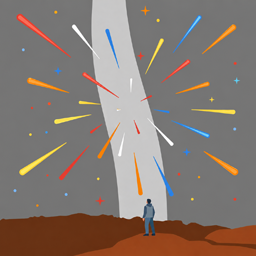
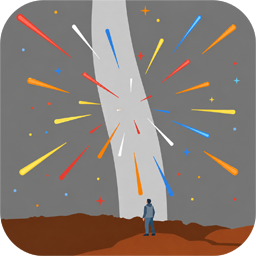
改善触控板交互，修改图标

Changed region(s): [[0.0, 0.8438, 1.0, 1.0], [0.8438, 0.0, 1.0, 0.1562], [0.0, 0.0, 0.1562, 0.1562]]

diff --git a/meteoalign/app_view_controls.py b/meteoalign/app_view_controls.py
@@ -2,8 +2,9 @@ from __future__ import annotations
 from .app_constants import *
 
 import math
+from collections.abc import Callable
 
-from PyQt5.QtCore import QEvent, QPoint, Qt, QTimer
+from PyQt5.QtCore import QEvent, QPoint, QPointF, Qt, QTimer
 from PyQt5.QtWidgets import QApplication, QGraphicsView, QMainWindow, QMessageBox
 
 from .app_constants import (
@@ -45,6 +46,29 @@ class ViewControlsMixin:
     last_drag_pos: QPoint | None
     render_timer: QTimer
     _reference_pick_press_pos: QPoint | None
+
+    def _native_zoom_centers(self) -> dict[int, QPointF]:
+        centers = getattr(self, "_graphics_view_native_zoom_centers", None)
+        if centers is None:
+            centers = {}
+            self._graphics_view_native_zoom_centers = centers
+        return centers
+
+    def _clear_graphics_view_native_zoom_center(self, view: QGraphicsView | None = None) -> None:
+        centers = self._native_zoom_centers()
+        if view is None:
+            centers.clear()
+            return
+        centers.pop(id(view), None)
+
+    def _graphics_view_native_zoom_center(self, view: QGraphicsView) -> QPointF:
+        centers = self._native_zoom_centers()
+        key = id(view)
+        center = centers.get(key)
+        if center is None:
+            center = view.mapToScene(view.viewport().rect().center())
+            centers[key] = center
+        return center
 
     def _configure_reference_preview_splitter(self) -> None:
         splitter = self.ui.splitterReferenceAndRealImage
@@ -233,6 +257,7 @@ class ViewControlsMixin:
                 self._reference_pick_press_pos = None
                 self.ui.referenceImageView.viewport().unsetCursor()
             if event.type() == QEvent.MouseButtonPress and event.button() == Qt.LeftButton:
+                self._clear_graphics_view_native_zoom_center(self.ui.referenceImageView)
                 if self._event_ctrl_pressed(event):
                     self._update_reference_map_cursor(True)
                     self._reference_pick_press_pos = event.pos()
@@ -249,6 +274,7 @@ class ViewControlsMixin:
                         self._handle_reference_map_click(event.pos())
                     return True
             if event.type() == QEvent.Wheel:
+                self._clear_graphics_view_native_zoom_center(self.ui.referenceImageView)
                 return self._handle_graphics_view_wheel_zoom(self.ui.referenceImageView, event)
             if event.type() == QEvent.NativeGesture and self._handle_graphics_view_native_zoom(
                 self.ui.referenceImageView,
@@ -263,6 +289,7 @@ class ViewControlsMixin:
                 if event.type() == QEvent.Leave:
                     self.ui.realImageView.viewport().unsetCursor()
                 if event.type() == QEvent.MouseButtonPress and event.button() == Qt.LeftButton:
+                    self._clear_graphics_view_native_zoom_center(self.ui.realImageView)
                     if self._event_ctrl_pressed(event):
                         self._handle_real_image_pick_click(event.pos())
                         return True
@@ -291,6 +318,7 @@ class ViewControlsMixin:
                 if event.type() == QEvent.KeyPress and self._handle_star_pick_key_press(event):
                     return True
             if event.type() == QEvent.Wheel:
+                self._clear_graphics_view_native_zoom_center(self.ui.realImageView)
                 return self._handle_graphics_view_wheel_zoom(self.ui.realImageView, event)
             if event.type() == QEvent.NativeGesture and self._handle_graphics_view_native_zoom(
                 self.ui.realImageView,
@@ -299,6 +327,7 @@ class ViewControlsMixin:
                 return True
         if hasattr(self.ui, "imageSequenceView") and watched is self.ui.imageSequenceView.viewport():
             if event.type() == QEvent.Wheel:
+                self._clear_graphics_view_native_zoom_center(self.ui.imageSequenceView)
                 return self._handle_graphics_view_wheel_zoom(self.ui.imageSequenceView, event)
             if event.type() == QEvent.NativeGesture and self._handle_graphics_view_native_zoom(
                 self.ui.imageSequenceView,
@@ -347,27 +376,40 @@ class ViewControlsMixin:
         view: QGraphicsView,
         factor: float,
         *,
-        center_on_viewport: bool = False,
-    ) -> None:
+        center_scene: QPointF | None = None,
+    ) -> QPointF | None:
+        center_on_viewport = center_scene is not None
         if not center_on_viewport:
             view.scale(factor, factor)
-            return
+            return None
 
-        center = view.mapToScene(view.viewport().rect().center())
         previous_anchor = view.transformationAnchor()
         view.setTransformationAnchor(QGraphicsView.AnchorViewCenter)
         try:
             view.scale(factor, factor)
         finally:
             view.setTransformationAnchor(previous_anchor)
-        view.centerOn(center)
+        view.centerOn(center_scene)
+        return center_scene
+
+    def _run_with_reference_real_sync_suspended(self, view: QGraphicsView, operation: Callable[[], None]) -> None:
+        should_suspend = view in (self.ui.referenceImageView, self.ui.realImageView)
+        if not should_suspend or self._syncing_reference_real_views:
+            operation()
+            return
+
+        self._syncing_reference_real_views = True
+        try:
+            operation()
+        finally:
+            self._syncing_reference_real_views = False
 
     def _apply_graphics_view_zoom_factor(
         self,
         view: QGraphicsView,
         factor: float,
         *,
-        center_on_viewport: bool = False,
+        center_scene: QPointF | None = None,
     ) -> None:
         if factor <= 0.0 or not math.isfinite(factor) or abs(factor - 1.0) <= 1e-4:
             return
@@ -375,20 +417,30 @@ class ViewControlsMixin:
             min_scale = self._graphics_view_fit_scale(view)
             current_scale = self._graphics_view_current_scale(view)
             if current_scale * factor <= min_scale:
-                self._fit_graphics_view_to_scene(view)
+                self._run_with_reference_real_sync_suspended(view, lambda: self._fit_graphics_view_to_scene(view))
                 self._sync_reference_real_view_from(view)
                 return
         if factor > 1.0:
             max_scale = self._graphics_view_max_scale(view)
             current_scale = self._graphics_view_current_scale(view)
             if max_scale is not None and current_scale * factor >= max_scale:
-                self._set_graphics_view_scale(view, max_scale)
-                self._update_live_star_map_zoom_scale(view)
+                def apply_max_scale() -> None:
+                    self._set_graphics_view_scale(view, max_scale)
+                    self._update_live_star_map_zoom_scale(view)
+
+                self._run_with_reference_real_sync_suspended(view, apply_max_scale)
                 self._sync_reference_real_view_from(view)
                 return
-        self._scale_graphics_view(view, factor, center_on_viewport=center_on_viewport)
-        self._update_live_star_map_zoom_scale(view)
-        self._sync_reference_real_view_from(view)
+
+        applied_center: QPointF | None = None
+
+        def apply_scale() -> None:
+            nonlocal applied_center
+            applied_center = self._scale_graphics_view(view, factor, center_scene=center_scene)
+            self._update_live_star_map_zoom_scale(view)
+
+        self._run_with_reference_real_sync_suspended(view, apply_scale)
+        self._sync_reference_real_view_from(view, source_center=applied_center)
 
     def _native_gesture_zoom_value(self, event) -> float:  # type: ignore[no-untyped-def]
         if not self._touchpad_pinch_zoom_enabled():
@@ -418,10 +470,21 @@ class ViewControlsMixin:
         return max(TOUCHPAD_ZOOM_MIN_FACTOR, min(TOUCHPAD_ZOOM_MAX_FACTOR, factor))
 
     def _handle_graphics_view_native_zoom(self, view: QGraphicsView, event) -> bool:  # type: ignore[no-untyped-def]
+        begin_gesture = getattr(Qt, "BeginNativeGesture", None)
+        if begin_gesture is not None and event.gestureType() == begin_gesture:
+            self._clear_graphics_view_native_zoom_center(view)
+            self._graphics_view_native_zoom_center(view)
+            return False
+
+        end_gesture = getattr(Qt, "EndNativeGesture", None)
+        if end_gesture is not None and event.gestureType() == end_gesture:
+            self._clear_graphics_view_native_zoom_center(view)
+            return False
+
         factor = self._native_gesture_zoom_factor(event)
         if abs(factor - 1.0) <= 1e-4:
             return False
-        self._apply_graphics_view_zoom_factor(view, factor, center_on_viewport=True)
+        self._apply_graphics_view_zoom_factor(view, factor, center_scene=self._graphics_view_native_zoom_center(view))
         return True
 
     def _handle_star_pick_native_zoom(self, event) -> bool:  # type: ignore[no-untyped-def]

diff --git a/meteoalign/app_alignment.py b/meteoalign/app_alignment.py
@@ -590,7 +590,12 @@ class AlignmentMixin:
             and self.current_image_preview is not None
         )
 
-    def _sync_reference_real_view_from(self, source_view: QGraphicsView, force: bool = False) -> None:
+    def _sync_reference_real_view_from(
+        self,
+        source_view: QGraphicsView,
+        force: bool = False,
+        source_center=None,
+    ) -> None:
         if self._syncing_reference_real_views:
             return
         if not force and not self._can_sync_reference_real_views():
@@ -602,8 +607,10 @@ class AlignmentMixin:
         self._syncing_reference_real_views = True
         try:
             target_view.setTransform(source_view.transform())
-            source_center = source_view.mapToScene(source_view.viewport().rect().center())
-            target_view.centerOn(source_center)
+            center = source_center
+            if center is None:
+                center = source_view.mapToScene(source_view.viewport().rect().center())
+            target_view.centerOn(center)
             if target_view is self.ui.realImageView:
                 self._cap_graphics_view_to_max_scale(target_view)
             self._update_live_star_map_zoom_scale(source_view)